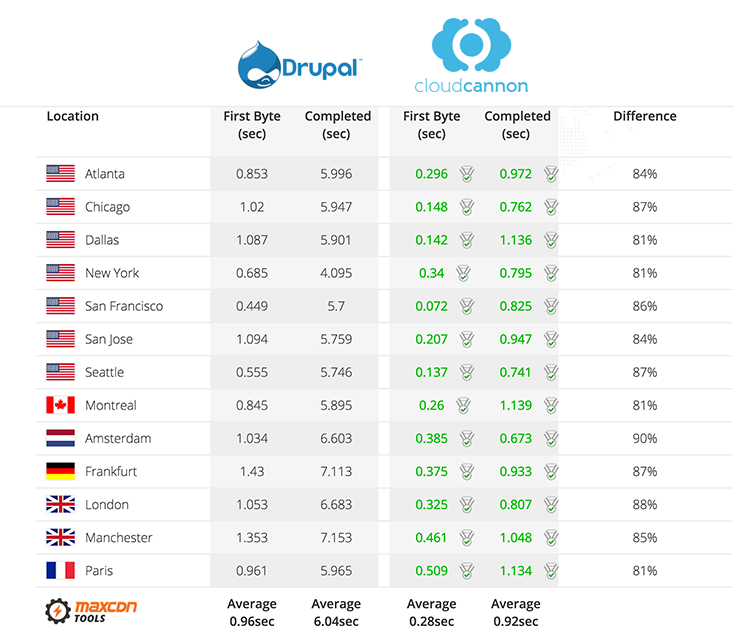
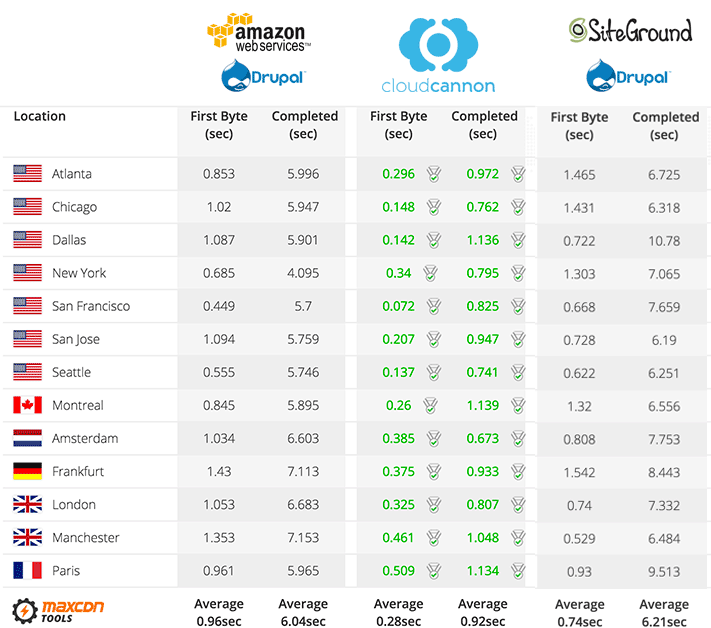
Updated Drupal blog post with team comments

diff --git a/_posts/2015-09-24-drupal.md b/_posts/2015-09-24-drupal.md
@@ -5,11 +5,25 @@ header: Drupal vs Jekyll + CloudCannon
 category: Features
 author: mike
 ---
-In this series we're comparing traditional backend CMSs with a static approach of [Jekyll](http://jekyllrb.com) + [CloudCannon](http://cloudcannon.com). We'll take a free HTML5 template and integrate it with two content management systems.
+This is the first of a series where we compare a traditional CMS with a static approach of [Jekyll](http://jekyllrb.com) + [CloudCannon](http://cloudcannon.com). We take an HTML5 template and integrate it with two content management systems.
+
+Today we're looking at Drupal, a powerful open source PHP CMS which has been around since 2000.
+
+I’ve tried to be as fair as I can with this comparison. It’s the first time I’ve used Drupal so there might be better ways of doing things. If you can see an improvement leave a comment.
 
 ## Site Overview
 
-The site is a [basic material design blog template](https://github.com/CloudCannon/jekyll-material-design-lite).
+The template we're using is called [Blog](http://www.getmdl.io/templates/blog/index.html) which is made by Google as part of their [Material Design Lite Framework](http://www.getmdl.io/).
+
+I've made a few modifications to the theme to get it ready for our testing:
+
+* The front page is simplified so it only shows blog posts
+* There's a navigation at the top right
+* I added about.html which is a basic page with content
+* Instead of using classes to show the background image I used inline styles so the CMS can just insert an image path
+* I removed the comments section and the next/previous links on a blog entry to keep the implementation as simple as possible
+
+You can see the static site I started each integration with [here](https://github.com/CloudCannon/material-design-lite).
 
 The home page lists all the blog posts.
 
@@ -51,7 +65,7 @@ jekyll serve
 
 #### Drupal
 
-With Drupal, I made a copy of the Stark theme and read documentation on building Drupal themes. After hours of messing around I added these files to the theme:
+With Drupal, I made a copy of the Stark theme and read documentation on building Drupal themes. These are the files I added to the theme:
 
 **html.tpl.php** - The outer most structure of the page and asset loading.
 
@@ -125,7 +139,7 @@ With Drupal, I made a copy of the Stark theme and read documentation on building
 
 **page.tpl.php** - Container for page HTML. Sits between html.tpl.php and the page/blog entry code in node.tpl.php.
 
-**region.tpl.php** - Was outputting unwanted HTML so I overrode it to output nothing.
+**region.tpl.php** - Was outputting unwanted HTML so I set it to output nothing.
 
 {% highlight php %}
 {% raw %}
@@ -133,9 +147,11 @@ With Drupal, I made a copy of the Stark theme and read documentation on building
 {% endraw %}
 {% endhighlight %}
 
-**block.tpl.php** - Was outputting unwanted HTML so I ovverode it to output nothing.
+**block.tpl.php** - Was outputting unwanted HTML so I set it to output nothing.
 
-**template.php** - Overrode the CSS and Javascript to prevent Drupal loading its default files. Also customised the menu item HTML output and added external CSS and Javascript files.
+**template.php** - Disabled Drupal's default CSS and Javascript files. Also customised the menu item HTML output and added external CSS and Javascript files.
+
+All the posts and site settings are stored in the MySQL database.
 
 It took me a long time and a lot of reading to figure out which files to edit or where generated HTML I didn't want was coming from. It felt like I was constantly fighting against Drupal to get the output I wanted.
 
@@ -151,7 +167,7 @@ Using Jekyll, most of the static html files remained exactly the same. I pulled 
 
 **default.html** - Contains the basic HTML structure. All other layouts use this as their parent layout.
 
-**post.html** - DDefines the structure of blog posts.
+**post.html** - Defines the structure of blog posts.
 
 **page.html** - Defines the structure of normal pages.
 
@@ -206,13 +222,17 @@ title: Home
 
 #### Drupal
 
-To deploy Drupal to a production server I set up an EC2 server with Ubuntu 14.04. Then I SSHed in to install the PHP/MySQL environment using [this guide](http://www.comtechies.com/2012/12/how-to-install-drupal-on-amazon-ec2.html). Finally I downloaded Drupal, ran the installer to setup my site and configure the database then transferred my theme across.
+For Drupal I tried two ways of deploying to a production server.
 
-The part of I found trickiest was getting the content I'd written in development onto the production site. I exported my development database but Drupal didn't like me just importing an existing database. With enough tinkering I eventually got this to work.
+First I set up an small EC2 server with Ubuntu 14.04 in US-West-1. Then I SSHed in to install the PHP/MySQL environment using [this guide](http://www.comtechies.com/2012/12/how-to-install-drupal-on-amazon-ec2.html). I downloaded Drupal, ran the installer to setup my site and configure the database. Then finally transferred my theme across and imported my development database using PHPMyAdmin.
+
+The second way I tried was using a paid service called [SiteGround](http://siteground.com). I could of used CPanel to do a one click install of Drupal but I wanted to keep the environment as close as I could to developement. I uploaded Drupal and my theme using FTP, ran the quick install, then imported my development database using PHPMyAdmin.
+
+Overall using SiteGround saved me a lot of time as I didn't have to set up an entire PHP environment.
 
 #### Jekyll
 
-I used CloudCannon deploy and host the Jekyll site. To do this I created a GitHub repository with my source files, then connected that repository to a new site in CloudCannon.
+I used [CloudCannon](http://cloudcannon.com) to deploy and host the Jekyll site. To do this I created a GitHub repository with my source files, then connected that repository to a new site in CloudCannon.
 
 ![](/img/blog/drupal-jekyll/connect-github.png){:.screenshot}
 
@@ -220,7 +240,7 @@ The files sync to CloudCannon and are live on a generated testing domain.
 
 ![](/img/blog/drupal-jekyll/file-browser.png){:.screenshot}
 
-All the content is part of the site so there's no separate database to import.
+All the content is in the files so there is no database.
 
 
 ## Updating content
@@ -235,7 +255,7 @@ Update content using a text area.
 
 ![](/img/blog/drupal-jekyll/update-content.png){:.screenshot}
 
-And update other meta data.
+And you can update other meta data.
 
 ![](/img/blog/drupal-jekyll/update-content-2.png){:.screenshot}
 
@@ -261,7 +281,13 @@ All changes made on CloudCannon get committed back to the repository so I can al
 
 ## Speed
 
-CloudCannon serves static files and all assets are minified, compressed and delivered on a CDN. All this gives CloudCannon a significant speed advantage over Drupal.
+CloudCannon serves static files and all assets are minified, compressed and delivered on a CDN.
+
+For Drupal I had the following cache settings turned on and loaded the page several times to ensure everything was cached properly:
+
+![](/img/blog/drupal-jekyll/drupal-speed.png)
+
+I used a [free tool from MaxCDN](http://tools.maxcdn.com/http) to compare the load times from different parts of the world
 
 ![](/img/blog/drupal-jekyll/speed.png)
 
@@ -271,10 +297,8 @@ I felt like I was fighting against Drupal each every step of the way. It was har
 
 Jekyll was a small step from the static website, deployment was a simple git push, the editing was all inline and the website was significantly faster.
 
-I've tried to be as fair as I can with this comparison. It's the first time I've used Drupal so there might be better ways of doing things. If you can see an improvement leave a comment below.
-
 All the source files are available on GitHub:
 
- * [Static Site](https://github.com/CloudCannon/jekyll-material-design-lite)
+ * [Static Site](https://github.com/CloudCannon/material-design-lite)
  * [Drupal Theme](https://github.com/CloudCannon/Drupal-material-theme)
  * [Jekyll Site](https://github.com/CloudCannon/jekyll-material-design-lite)
